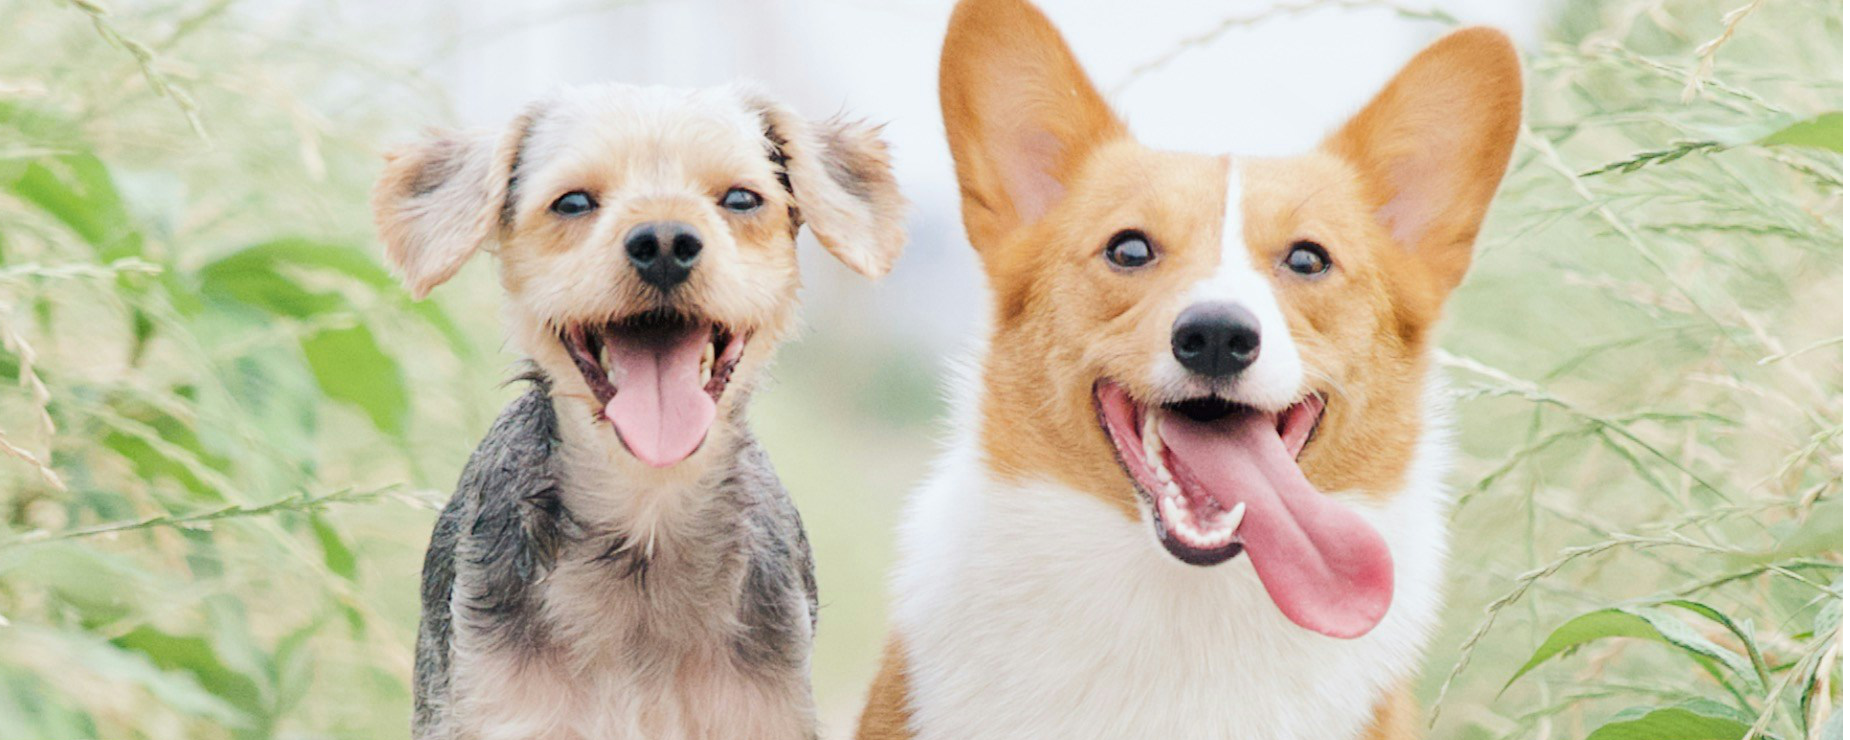
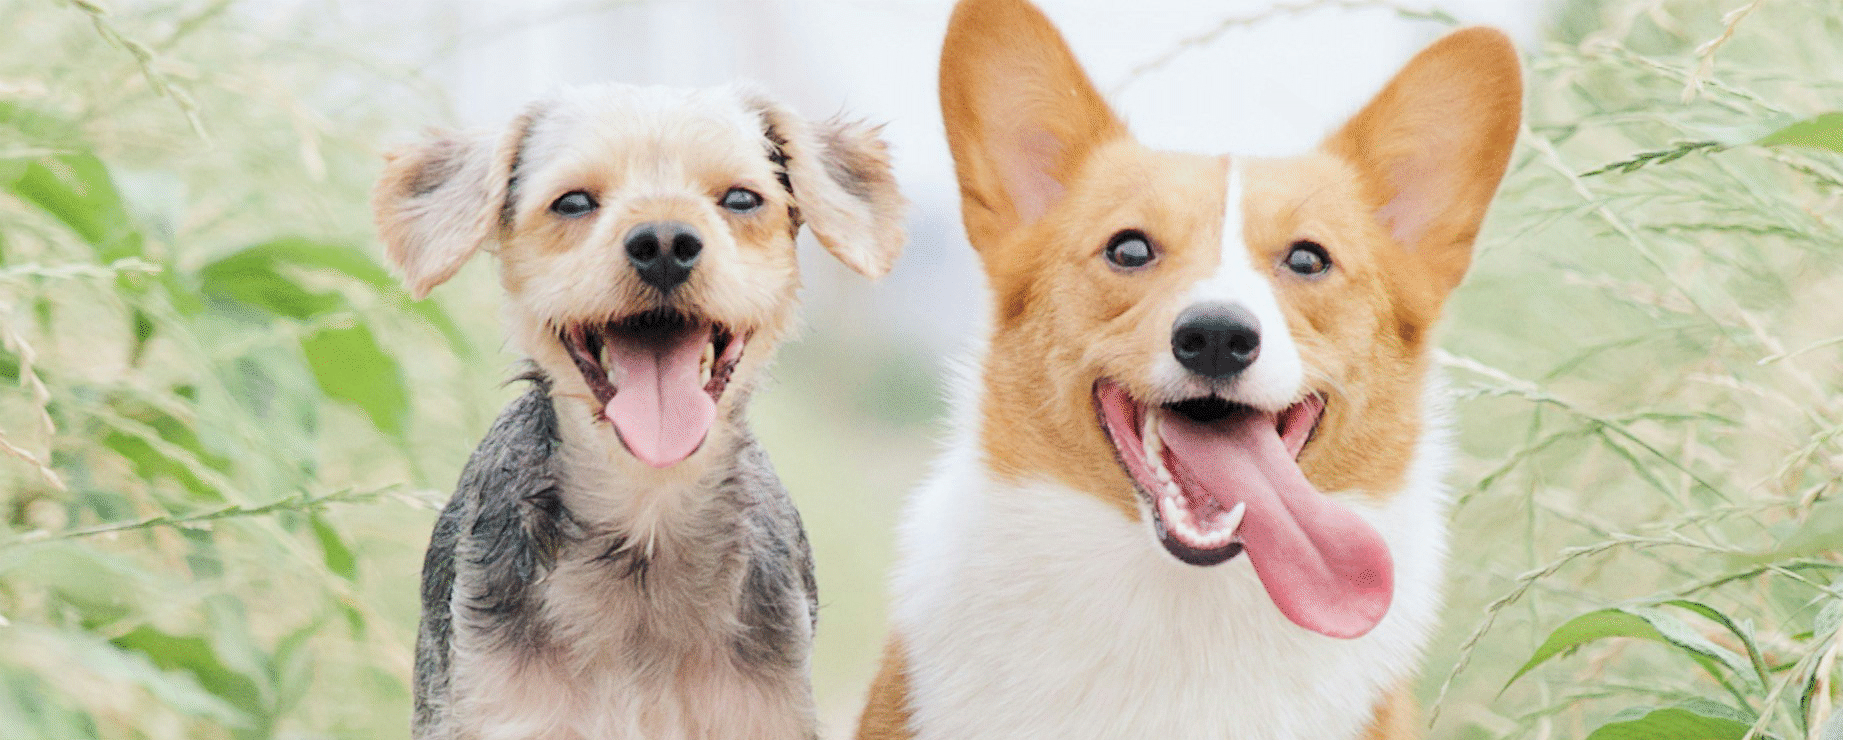
added bid list page and modified index page

diff --git a/target/classes/templates/index.html b/target/classes/templates/index.html
@@ -73,7 +73,7 @@
 </nav>
 
 <div class="banner-wrapper">
-    <img th:src="@{/images/background.png}" class="banner-img" alt="pug">
+    <img th:src="@{/images/banner.png}" class="banner-img" alt="pug">
 </div>
 
 <!--<div class="banner-wrapper">-->
